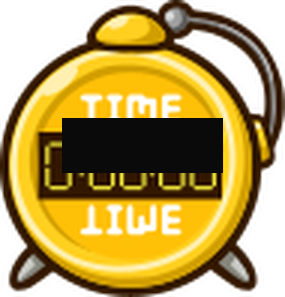
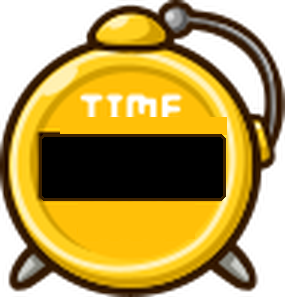
Bigger joystick, clean game-over plaque, fix clock overlap, tighter ellipse/point collision

Changed region(s): [[0.1123, 0.3939, 0.814, 0.8182]]

diff --git a/game.js b/game.js
@@ -42,18 +42,26 @@
     touchId: null,
     ox: 0, oy: 0,   // origin (canvas coords)
     dx: 0, dy: 0,   // stick offset
-    baseR: 52,
-    stickR: 22,
-    maxD: 40,
+    baseR: 80,
+    stickR: 32,
+    maxD: 60,
   };
   function detectTouchUI() {
     const coarse = window.matchMedia && window.matchMedia("(pointer: coarse)").matches;
     const touchPts = (navigator.maxTouchPoints || 0) > 0;
     const small = Math.min(window.innerWidth, window.innerHeight) < 900;
     joy.enabled = !!(coarse || touchPts || ("ontouchstart" in window && small));
+    // Scale with viewport: canvas logical 640 wide; on a small phone the canvas
+    // is shrunk, so grow the logical radius to keep ~75-90 CSS px on screen.
+    const cssW = (canvas.getBoundingClientRect().width || window.innerWidth) || 640;
+    const k = Math.max(1, Math.min(1.6, 420 / cssW * 1.0 + 0.55));
+    joy.baseR = Math.round(80 * k);
+    joy.stickR = Math.round(32 * k);
+    joy.maxD = Math.round(60 * k);
   }
   detectTouchUI();
   window.addEventListener("resize", detectTouchUI);
+  window.__bfQA = { over(){ deathFish = null; score = 12345; mode = "over"; }, play(){ startGame(); }, joy(){ joy.enabled = true; } };
 
   let mode = "title"; // title | help | play | over | win
   let score = 0;
@@ -208,7 +216,7 @@
       btnHelpOver: "assets/ui/btn-help-over.png",
       btnHelpDown: "assets/ui/btn-help-down.png",
       btnNext: "assets/ui/btn-next.png",
-      clock: "assets/ui/clock.png",
+      clock: "assets/ui/clock.png?v=2",
       scorePlaque: "assets/ui/score-plaque.png",
       lifeFish: "assets/ui/life-fish.png",
       livesStack: "assets/ui/lives-stack.png",
@@ -217,6 +225,7 @@
       gameOver: "assets/ui/game-over.png",
       congratulation: "assets/ui/congratulation.png",
       gameoverScore: "assets/ui/gameover-score.png",
+      gameoverLabel: "assets/ui/gameover-label.png?v=2",
       bgBubbles: "assets/ui/bg-bubbles.png",
       bgWater: "assets/ui/bg-water.png",
     };
@@ -1095,8 +1104,8 @@
       const w = 95, h = 99;
       const x = cx - w * 0.55, y = cy - h * 0.35;
       drawAsset(img, x, y, w, h);
-      const lcdW = w * 0.56, lcdH = h * 0.15;
-      const lcdX = x + w * 0.22, lcdY = y + h * 0.42;
+      const lcdW = w * 0.6, lcdH = h * 0.17;
+      const lcdX = x + w * 0.16, lcdY = y + h * 0.47;
       const fonts = ASSET.digits.timer;
       if (fonts && fonts[0]) {
         const digH = lcdH * 0.95;
@@ -1423,12 +1432,12 @@
 
   /** Default joystick nest: bottom-left margin outside SCORE/UI */
   function joyHome() {
-    return { x: 70, y: H - 78 };
+    return { x: joy.baseR + 14, y: H - joy.baseR - 14 };
   }
 
   function joyHit(p) {
     const h = joyHome();
-    return Math.hypot(p.x - h.x, p.y - h.y) <= joy.baseR + 18;
+    return Math.hypot(p.x - h.x, p.y - h.y) <= joy.baseR * 1.6;
   }
 
   function joySetFromPoint(p) {
@@ -1446,7 +1455,7 @@
 
   function joyAxes() {
     if (!joy.enabled || !joy.active) return { l: false, r: false, u: false, d: false };
-    const dead = 10;
+    const dead = joy.maxD * 0.2;
     return {
       l: joy.dx < -dead,
       r: joy.dx > dead,
@@ -1524,7 +1533,7 @@
     unlockAudio();
     for (const t of e.changedTouches) {
       const p = canvasPosFromTouch(t);
-      if (mode === "play" && joy.enabled && !joy.active && (joyHit(p) || p.y > H * 0.55 && p.x < W * 0.42)) {
+      if (mode === "play" && joy.enabled && !joy.active && (joyHit(p) || p.y > H * 0.45 && p.x < W * 0.5)) {
         // Capture as joystick (bottom-left zone / nest)
         joy.active = true;
         joy.touchId = t.identifier;
@@ -1722,14 +1731,39 @@
     // Collisions — SWF: eat iff f_size > fishsize; else life.reduce
     const pSx = toScreenX(player.x);
     const pSy = toScreenY(player.y);
-    const pR = player.size * 0.85;
+    // Body ellipses (exclude fins/tail padding). Sprite width ≈ 2.2×size,
+    // body ≈ 1.25×size half-width horizontally, 0.8×size vertically; body
+    // centre shifted toward the head (facing direction).
+    const pFace = player.facing || 1;
+    const pBx = pSx + pFace * player.size * 0.1;
+    const pA = player.size * 0.8, pB = player.size * 0.62;
+    const pts = [];
+    // SWF-style sample points on player outline (6 pts + centre)
+    for (let i = 0; i < 6; i++) {
+      const a = (i / 6) * Math.PI * 2;
+      pts.push([pBx + Math.cos(a) * pA, pSy + Math.sin(a) * pB]);
+    }
+    pts.push([pBx, pSy]);
 
     for (const f of fish) {
       const fSx = toScreenX(f.x);
       const fSy = toScreenY(f.y);
-      const fR = f.size * 0.85;
-      const d = Math.hypot(pSx - fSx, pSy - fSy);
-      if (d >= pR + fR) continue;
+      const fFace = f.facing || 1;
+      const fBx = fSx + fFace * f.size * 0.1;
+      const fA = f.size * 0.8, fB = f.size * 0.62;
+      if (Math.abs(pBx - fBx) > pA + fA || Math.abs(pSy - fSy) > pB + fB) continue;
+      // hitTest(x,y,true)-like: any player sample point inside the fish body,
+      // or the fish's centre inside player's body (small fish case)
+      let hit = false;
+      for (const [qx, qy] of pts) {
+        const ex = (qx - fBx) / fA, ey = (qy - fSy) / fB;
+        if (ex * ex + ey * ey < 1) { hit = true; break; }
+      }
+      if (!hit) {
+        const ex = (fBx - pBx) / pA, ey = (fSy - pSy) / pB;
+        hit = ex * ex + ey * ey < 1;
+      }
+      if (!hit) continue;
 
       if (player.f_size > f.fishsize) {
         const bonus = (f.fishsize * 6) | 0;
@@ -2015,11 +2049,11 @@
       const gh = gw * (gs.height / gs.width);
       const gx = W / 2 - gw / 2, gy = py + 120;
       drawAsset(gs, gx, gy, gw, gh);
-      const digitX = gx + gw * 0.28;
-      const digitW = gw * 0.70;
-      roundRect(digitX, gy + gh * 0.12, digitW, gh * 0.76, 3);
-      ctx.fillStyle = "#000";
+      // Original: orange 점수 tag + LCD digits on a dark-navy strip (no hard black slab)
+      roundRect(gx + gw * 0.27, gy + gh * 0.04, gw * 0.73, gh * 0.92, 8);
+      ctx.fillStyle = "rgba(10,30,70,0.85)";
       ctx.fill();
+      if (ASSET.ui.gameoverLabel) drawAsset(ASSET.ui.gameoverLabel, gx, gy, gw * (232 / 819), gh);
       const text = String(Math.min(score, 999999)).padStart(6, "0");
       const fonts = ASSET.digits.score;
       if (fonts && fonts[0]) {

diff --git a/index.html b/index.html
@@ -34,6 +34,6 @@
 <div id="stage">
   <canvas id="game" width="640" height="480"></canvas>
 </div>
-<script src="game.js"></script>
+<script src="game.js?v=fix13"></script>
 </body>
 </html>
